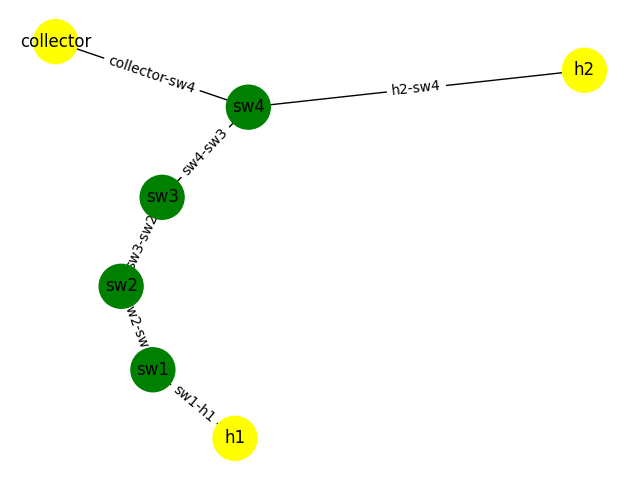
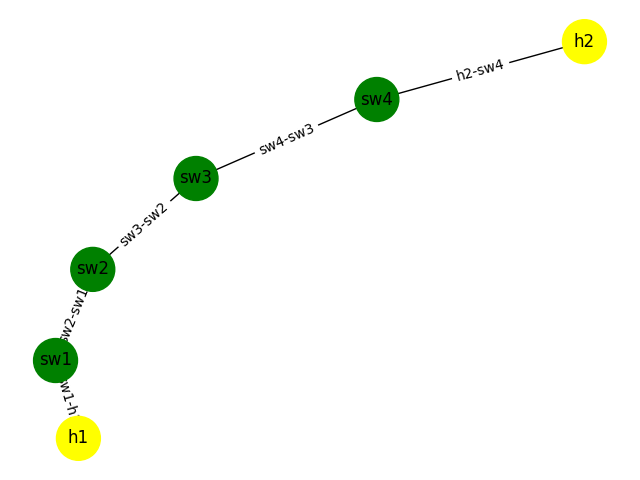
updated parse_p4

diff --git a/files/bfrt.py b/files/bfrt.py
@@ -23,7 +23,7 @@ def clear_all(verbose=True, batching=True):
                 if verbose:
                     print("Clearing table {:<40} ... ".
                           format(table['full_name']), end='', flush=True)
-                # table['node'].clear(batch=batching)
+                table['node'].clear(batch=batching)
                 if verbose:
                     print('Done')
 
@@ -35,71 +35,41 @@ vlan_fwd.add_with_match(vid=1920, ingress_port=136,   link=0)
 vlan_fwd = p4p7.SwitchIngress.vlan_fwd
 vlan_fwd.add_with_match(vid=1920, ingress_port=128,   link=1)
 
-vlan_fwd = p4p7.SwitchIngress.vlan_fwd
-vlan_fwd.add_with_match(vid=1920, ingress_port=132,   link=2)
-
 arp_fwd = p4p7.SwitchIngress.arp_fwd
 arp_fwd.add_with_match_arp(vid=1920, ingress_port=136,   link=0)
 
 arp_fwd = p4p7.SwitchIngress.arp_fwd
 arp_fwd.add_with_match_arp(vid=1920, ingress_port=128,   link=1)
 
-arp_fwd = p4p7.SwitchIngress.arp_fwd
-arp_fwd.add_with_match_arp(vid=1920, ingress_port=132,   link=2)
+basic_fwd = p4p7.SwitchIngress.basic_fwd
+basic_fwd.add_with_send_next(sw=4, dest_ip=IPAddress('10.0.2.2'),   link_id=1, sw_id=3)
 
 basic_fwd = p4p7.SwitchIngress.basic_fwd
-basic_fwd.add_with_send_next(sw=5, dest_ip=IPAddress('10.0.2.2'),   link_id=1, sw_id=3)
+basic_fwd.add_with_send_next(sw=4, dest_ip=IPAddress('10.0.1.1'),   link_id=3, sw_id=2)
 
 basic_fwd = p4p7.SwitchIngress.basic_fwd
-basic_fwd.add_with_send_next(sw=5, dest_ip=IPAddress('10.0.1.1'),   link_id=4, sw_id=2)
+basic_fwd.add_with_send_next(sw=3, dest_ip=IPAddress('10.0.2.2'),   link_id=4, sw_id=2)
 
 basic_fwd = p4p7.SwitchIngress.basic_fwd
-basic_fwd.add_with_send_next(sw=4, dest_ip=IPAddress('10.0.2.2'),   link_id=5, sw_id=2)
+basic_fwd.add_with_send_next(sw=3, dest_ip=IPAddress('10.0.1.1'),   link_id=2, sw_id=1)
 
 basic_fwd = p4p7.SwitchIngress.basic_fwd
-basic_fwd.add_with_send_next(sw=4, dest_ip=IPAddress('10.0.1.1'),   link_id=3, sw_id=1)
+basic_fwd.add_with_send_next(sw=2, dest_ip=IPAddress('10.0.2.2'),   link_id=3, sw_id=1)
 
 basic_fwd = p4p7.SwitchIngress.basic_fwd
-basic_fwd.add_with_send_next(sw=3, dest_ip=IPAddress('10.0.2.2'),   link_id=4, sw_id=1)
-
-basic_fwd = p4p7.SwitchIngress.basic_fwd
-basic_fwd.add_with_send_next(sw=3, dest_ip=IPAddress('10.0.1.1'),   link_id=0, sw_id=0)
+basic_fwd.add_with_send_next(sw=2, dest_ip=IPAddress('10.0.1.1'),   link_id=0, sw_id=0)
 
 basic_fwd = p4p7.SwitchIngress.basic_fwd
 basic_fwd.add_with_send(sw=1, dest_ip=IPAddress('10.0.2.2'),   port=128)
 
 basic_fwd = p4p7.SwitchIngress.basic_fwd
-basic_fwd.add_with_send_next(sw=1, dest_ip=IPAddress('10.0.1.1'),   link_id=5, sw_id=3)
+basic_fwd.add_with_send_next(sw=1, dest_ip=IPAddress('10.0.1.1'),   link_id=4, sw_id=3)
 
 basic_fwd = p4p7.SwitchIngress.basic_fwd
 basic_fwd.add_with_send(sw=0, dest_ip=IPAddress('10.0.1.1'),   port=136)
 
 basic_fwd = p4p7.SwitchIngress.basic_fwd
-basic_fwd.add_with_send_next(sw=0, dest_ip=IPAddress('10.0.2.2'),   link_id=3, sw_id=0)
-
-basic_fwd = p4p7.SwitchIngress.basic_fwd
-basic_fwd.add_with_send_next(sw=5, dest_ip=IPAddress('10.0.0.254'),   link_id=2, sw_id=3)
-
-basic_fwd = p4p7.SwitchIngress.basic_fwd
-basic_fwd.add_with_send_next(sw=4, dest_ip=IPAddress('10.0.0.254'),   link_id=5, sw_id=2)
-
-basic_fwd = p4p7.SwitchIngress.basic_fwd
-basic_fwd.add_with_send_next(sw=3, dest_ip=IPAddress('10.0.0.254'),   link_id=4, sw_id=1)
-
-basic_fwd = p4p7.SwitchIngress.basic_fwd
-basic_fwd.add_with_send(sw=2, dest_ip=IPAddress('10.0.0.254'),   port=132)
-
-basic_fwd = p4p7.SwitchIngress.basic_fwd
-basic_fwd.add_with_send_next(sw=2, dest_ip=IPAddress('10.0.1.1'),   link_id=5, sw_id=3)
-
-basic_fwd = p4p7.SwitchIngress.basic_fwd
-basic_fwd.add_with_send_next(sw=0, dest_ip=IPAddress('10.0.0.254'),   link_id=3, sw_id=0)
-
-basic_fwd = p4p7.SwitchIngress.basic_fwd
-basic_fwd.add_with_send_next(sw=2, dest_ip=IPAddress('10.0.2.2'),   link_id=1, sw_id=3)
-
-basic_fwd = p4p7.SwitchIngress.basic_fwd
-basic_fwd.add_with_send_next(sw=1, dest_ip=IPAddress('10.0.0.254'),   link_id=2, sw_id=3)
+basic_fwd.add_with_send_next(sw=0, dest_ip=IPAddress('10.0.2.2'),   link_id=2, sw_id=0)
 
 Int_source = p4user.Ingress.Int_source.tb_activate_source
 Int_source.add_with_activate_source(sw_id= 0, ingress_port = 136)
@@ -129,25 +99,12 @@ Int_source.add_with_configure_source(srcAddr=IPAddress("10.0.3.3"),
                     hop_metadata_len = 6,
                     ins_cnt = 4,
                     ins_mask = 0xCC, sw_id= 0)
-Int_source = p4user.Ingress.Int_source.tb_int_source
-# Int_source.mod_with_configure_source(srcAddr=IPAddress("10.0.3.3"),
-#                     srcAddr_mask=0xFFFFFFFF,
-#                     dstAddr=IPAddress("10.0.5.5"),
-#                     dstAddr_mask=0xFFFFFFFF,
-#                     l4_src=0x11FF,
-#                     l4_src_mask=0x0000,
-#                     l4_dst=0x4268,
-#                     l4_dst_mask=0x0000,
-#                     max_hop = 4,
-#                     hop_metadata_len = 6,
-#                     ins_cnt = 4,
-#                     ins_mask = 0xCC, sw_id= 0)
 Int_transit = p4user.Egress.Int_transit.tb_int_transit
-Int_transit.add_with_configure_transit(switch_id=1, l3_mtu=1500, sw_id= 0)
+Int_transit.set_default_with_configure_transit(switch_id=1, l3_mtu=1500, sw_id= 0)
 Int_transit = p4user.Egress.Int_transit.tb_int_transit
-Int_transit.add_with_configure_transit(switch_id=2, l3_mtu=1500, sw_id= 1)
+Int_transit.set_default_with_configure_transit(switch_id=2, l3_mtu=1500, sw_id= 1)
 Int_transit = p4user.Egress.Int_transit.tb_int_transit
-Int_transit.add_with_configure_transit(switch_id=3, l3_mtu=1500, sw_id= 2)
+Int_transit.set_default_with_configure_transit(switch_id=3, l3_mtu=1500, sw_id= 2)
 Int_sink_config = p4user.Ingress.Int_sink_config.tb_int_sink
 Int_sink_config.add_with_configure_sink(ucast_egress_port=132, sink_reporting_port=132, sw_id= 3)
 Int_sink = p4user.Egress.Int_sink.Int_report.tb_int_reporting
@@ -166,11 +123,11 @@ print ("Table arp_fwd:")
 arp_fwd.dump(table=True)
 print ("Table basic_fwd:")
 basic_fwd.dump(table=True)
-print ("Table Int_sink:")
-Int_sink.dump(table=True)
-print ("Table Int_sink_config:")
-Int_sink_config.dump(table=True)
-print ("Table Int_transit:")
-Int_transit.dump(table=True)
 print ("Table Int_source:")
 Int_source.dump(table=True)
+print ("Table Int_sink:")
+Int_sink.dump(table=True)
+print ("Table Int_transit:")
+Int_transit.dump(table=True)
+print ("Table Int_sink_config:")
+Int_sink_config.dump(table=True)

diff --git a/files/p4rt.py b/files/p4rt.py
@@ -20,12 +20,6 @@ te.match['ingress_port'] = '128'
 te.action['link']  = '1'
 te.insert()
 
-te = sh.TableEntry('SwitchIngress.vlan_fwd')(action='SwitchIngress.match')
-te.match['vid'] = '1920'
-te.match['ingress_port'] = '132'
-te.action['link']  = '2'
-te.insert()
-
 te = sh.TableEntry('SwitchIngress.arp_fwd')(action='SwitchIngress.match_arp')
 te.match['vid'] = '1920'
 te.match['ingress_port'] = '136'
@@ -38,28 +32,10 @@ te.match['ingress_port'] = '128'
 te.action['link']  = '1'
 te.insert()
 
-te = sh.TableEntry('SwitchIngress.arp_fwd')(action='SwitchIngress.match_arp')
-te.match['vid'] = '1920'
-te.match['ingress_port'] = '132'
-te.action['link']  = '2'
-te.insert()
-
-te = sh.TableEntry('SwitchIngress.basic_fwd')(action='SwitchIngress.send_next')
-te.match['sw'] = '5'
-te.match['dest_ip'] = '10.0.2.2'
-te.action['sw_id']  = '1'
-te.insert()
-
-te = sh.TableEntry('SwitchIngress.basic_fwd')(action='SwitchIngress.send_next')
-te.match['sw'] = '5'
-te.match['dest_ip'] = '10.0.1.1'
-te.action['sw_id']  = '4'
-te.insert()
-
 te = sh.TableEntry('SwitchIngress.basic_fwd')(action='SwitchIngress.send_next')
 te.match['sw'] = '4'
 te.match['dest_ip'] = '10.0.2.2'
-te.action['sw_id']  = '5'
+te.action['sw_id']  = '1'
 te.insert()
 
 te = sh.TableEntry('SwitchIngress.basic_fwd')(action='SwitchIngress.send_next')
@@ -76,6 +52,18 @@ te.insert()
 
 te = sh.TableEntry('SwitchIngress.basic_fwd')(action='SwitchIngress.send_next')
 te.match['sw'] = '3'
+te.match['dest_ip'] = '10.0.1.1'
+te.action['sw_id']  = '2'
+te.insert()
+
+te = sh.TableEntry('SwitchIngress.basic_fwd')(action='SwitchIngress.send_next')
+te.match['sw'] = '2'
+te.match['dest_ip'] = '10.0.2.2'
+te.action['sw_id']  = '3'
+te.insert()
+
+te = sh.TableEntry('SwitchIngress.basic_fwd')(action='SwitchIngress.send_next')
+te.match['sw'] = '2'
 te.match['dest_ip'] = '10.0.1.1'
 te.action['sw_id']  = '0'
 te.insert()
@@ -89,7 +77,7 @@ te.insert()
 te = sh.TableEntry('SwitchIngress.basic_fwd')(action='SwitchIngress.send_next')
 te.match['sw'] = '1'
 te.match['dest_ip'] = '10.0.1.1'
-te.action['sw_id']  = '5'
+te.action['sw_id']  = '4'
 te.insert()
 
 te = sh.TableEntry('SwitchIngress.basic_fwd')(action='SwitchIngress.send')
@@ -101,54 +89,6 @@ te.insert()
 te = sh.TableEntry('SwitchIngress.basic_fwd')(action='SwitchIngress.send_next')
 te.match['sw'] = '0'
 te.match['dest_ip'] = '10.0.2.2'
-te.action['sw_id']  = '3'
-te.insert()
-
-te = sh.TableEntry('SwitchIngress.basic_fwd')(action='SwitchIngress.send_next')
-te.match['sw'] = '5'
-te.match['dest_ip'] = '10.0.0.254'
-te.action['sw_id']  = '2'
-te.insert()
-
-te = sh.TableEntry('SwitchIngress.basic_fwd')(action='SwitchIngress.send_next')
-te.match['sw'] = '4'
-te.match['dest_ip'] = '10.0.0.254'
-te.action['sw_id']  = '5'
-te.insert()
-
-te = sh.TableEntry('SwitchIngress.basic_fwd')(action='SwitchIngress.send_next')
-te.match['sw'] = '3'
-te.match['dest_ip'] = '10.0.0.254'
-te.action['sw_id']  = '4'
-te.insert()
-
-te = sh.TableEntry('SwitchIngress.basic_fwd')(action='SwitchIngress.send')
-te.match['sw'] = '2'
-te.match['dest_ip'] = '10.0.0.254'
-te.action['port']  = '132'
-te.insert()
-
-te = sh.TableEntry('SwitchIngress.basic_fwd')(action='SwitchIngress.send_next')
-te.match['sw'] = '2'
-te.match['dest_ip'] = '10.0.1.1'
-te.action['sw_id']  = '5'
-te.insert()
-
-te = sh.TableEntry('SwitchIngress.basic_fwd')(action='SwitchIngress.send_next')
-te.match['sw'] = '0'
-te.match['dest_ip'] = '10.0.0.254'
-te.action['sw_id']  = '3'
-te.insert()
-
-te = sh.TableEntry('SwitchIngress.basic_fwd')(action='SwitchIngress.send_next')
-te.match['sw'] = '2'
-te.match['dest_ip'] = '10.0.2.2'
-te.action['sw_id']  = '1'
-te.insert()
-
-te = sh.TableEntry('SwitchIngress.basic_fwd')(action='SwitchIngress.send_next')
-te.match['sw'] = '1'
-te.match['dest_ip'] = '10.0.0.254'
 te.action['sw_id']  = '2'
 te.insert()
 

diff --git a/src/parse_p4.py b/src/parse_p4.py
@@ -76,7 +76,7 @@ def editP4(p4_code, u_port, tables_used, include_folder = "p4src/include/"): #pu
 					allContent = allContent[:ethFinal+a+1] + add + allContent[ethFinal+a:]
 
 					#new state to parser rec header
-					newState = "\n\tstate parse_rec { \n\t\tpacket.extract(hdr.rec);\n\t\ttransition select(hdr.rec.ether_type){\n"+ transitionContent   +"\n\t}\n"
+					newState = "\n\tstate parse_rec { \n\t\tpkt.extract(hdr.rec);\n\t\ttransition select(hdr.rec.ether_type){\n"+ transitionContent   +"\n\t}\n"
 					x = ethStart
 					aux = re.search(patternEthernetFull, allContent[x:])
 					allContent = allContent[:x+aux.end()+1] + newState +allContent[x+aux.end()+1:]
@@ -145,7 +145,7 @@ def editP4(p4_code, u_port, tables_used, include_folder = "p4src/include/"): #pu
 					st = matchi.start()
 					en = matchi.end()
 
-					allContent = allContent[:ig3.end()+en-1] + "\tig_intr_tm_md.ucast_egress_port = " + str(user_port) + ";\n\t" + allContent[ig3.end()+en-1:]
+					allContent = allContent[:ig3.end()+en-1] + "\tig_tm_md.ucast_egress_port = " + str(user_port) + ";\n\t" + allContent[ig3.end()+en-1:]
 			
 			
 			if file == p4_original:

diff --git a/main.py b/main.py
@@ -36,13 +36,11 @@ topo.addp4("p4src/int.p4")
 # include the link configuration
 topo.addhost("h1","2/0", 136, 10000000000, "False", "False", 1920, "10.0.1.1") 
 topo.addhost("h2","1/0", 128, 10000000000, "False", "False", 1920, "10.0.2.2") 
-topo.addhost("collector","2/1", 132, 10000000000, "False", "False", 1920, "10.0.0.254")
 
 # addlink(node1, node2, bw, pkt_loss, latency, jitter, percentage)
 # bw is considered just for the first defined link
 topo.addlink("h1","sw1", 10000000000, 0, 0, 0, 100)
 topo.addlink("h2","sw4", 10000000000, 0, 0, 0, 100)
-topo.addlink("collector","sw4", 10000000000, 0, 0, 0, 100)
 topo.addlink("sw1","sw2", 10000000000, 0, 0, 0, 100)
 topo.addlink("sw2","sw3", 10000000000, 0, 0, 0, 100)
 topo.addlink("sw3","sw4", 10000000000, 0, 0, 0, 100)
